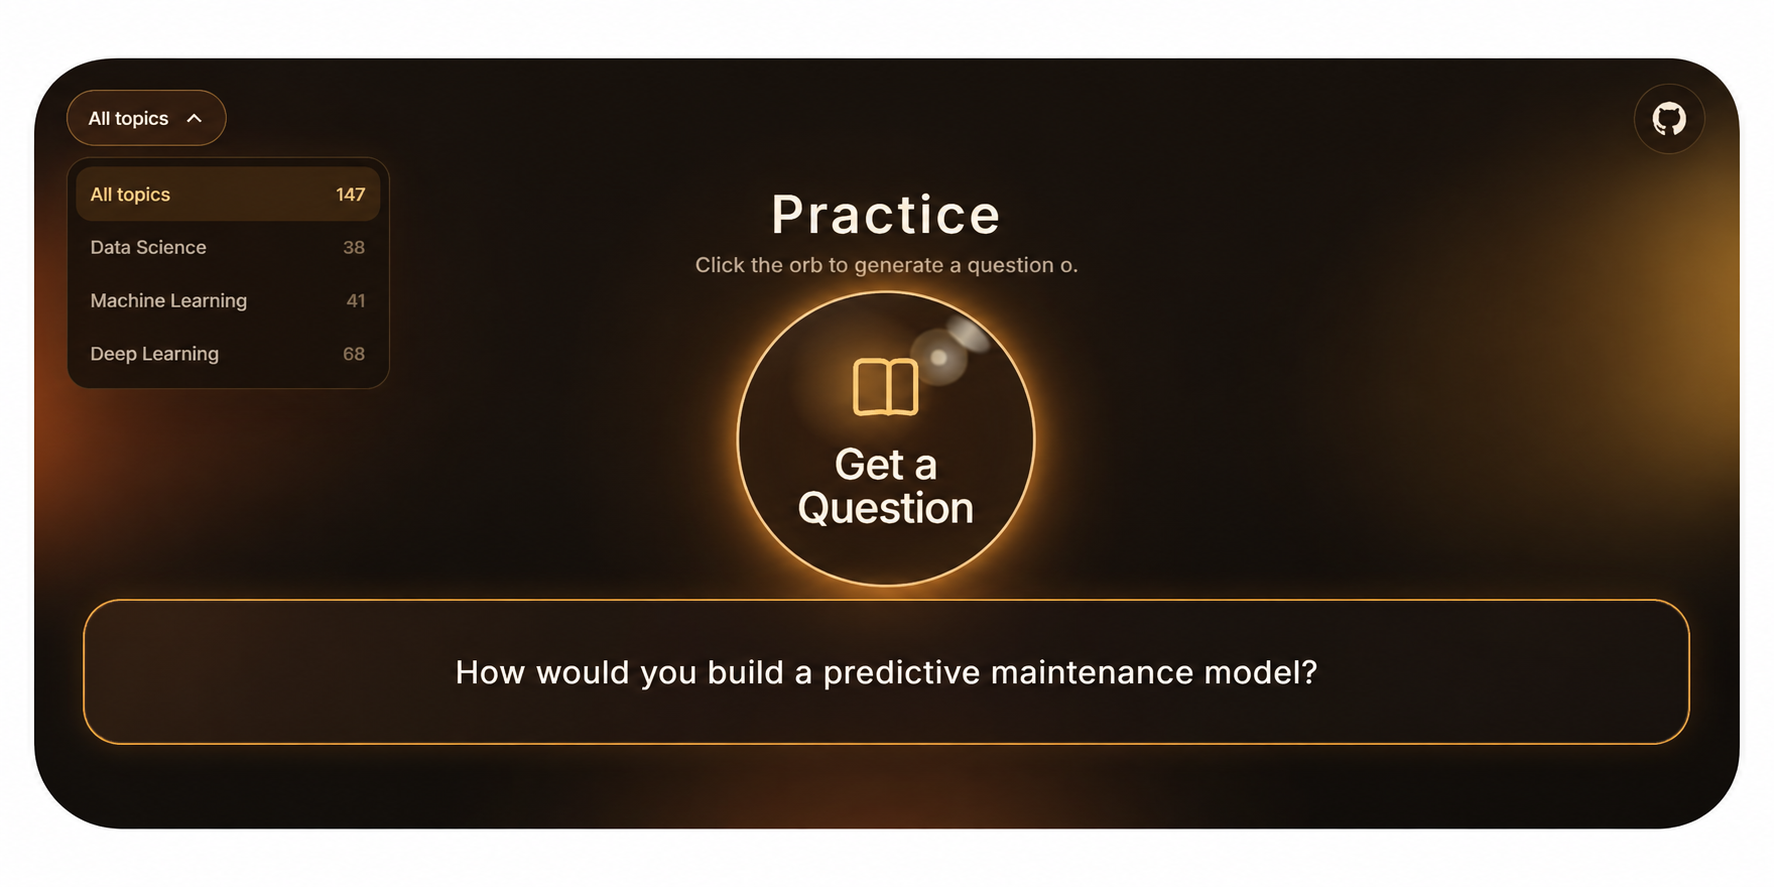
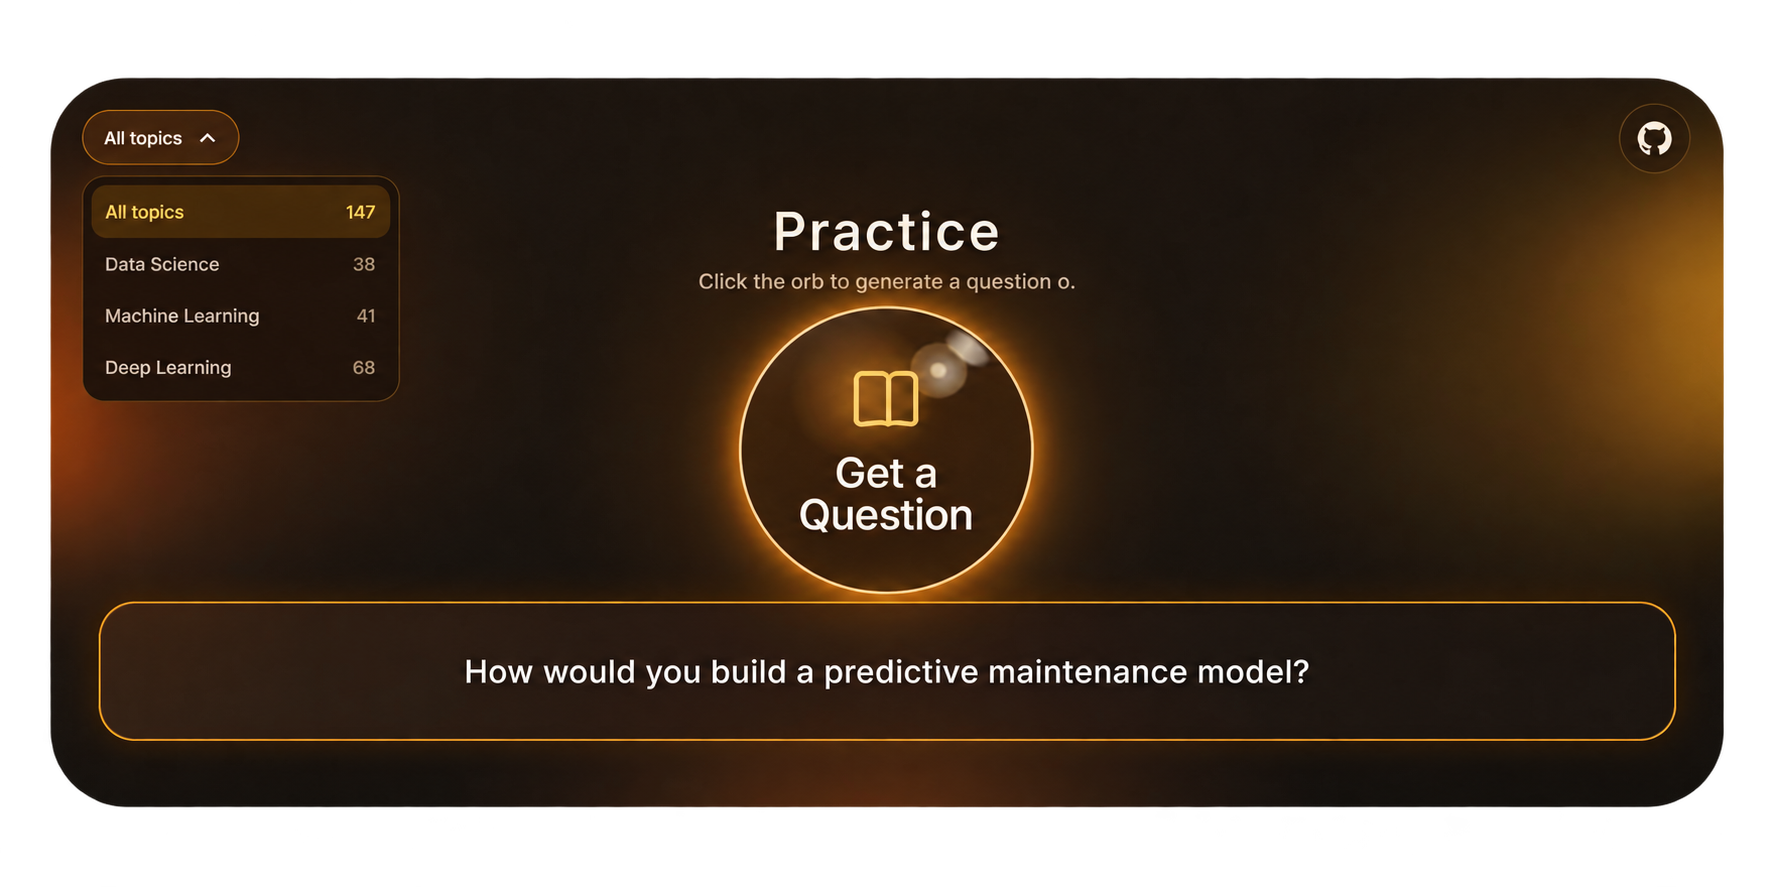
READ.me

diff --git a/README.md b/README.md
@@ -2,8 +2,7 @@
   <img src="recall_icon.png" alt="Recall Logo" width="140">
 </p>
 
-<h1 align="center">Recall</h1>
-
+<!-- <h1 align="center">Recall</h1> -->
 <p align="center">
   Practice interview questions in Data Science, Machine Learning, and Deep Learning.
 </p>
@@ -20,7 +19,7 @@
 
 > **Coming soon:** AI Engineering interview questions will be added in a future update.
 
-Also see [ML Projects](https://github.com/ziraddingulumjanly).
+Also see [ML Projects](https://github.com/ziraddingulumjanly/Recall).
 
 A focused, browser-based interview practice tool for **Data Science, Machine Learning, and Deep Learning**.
 
